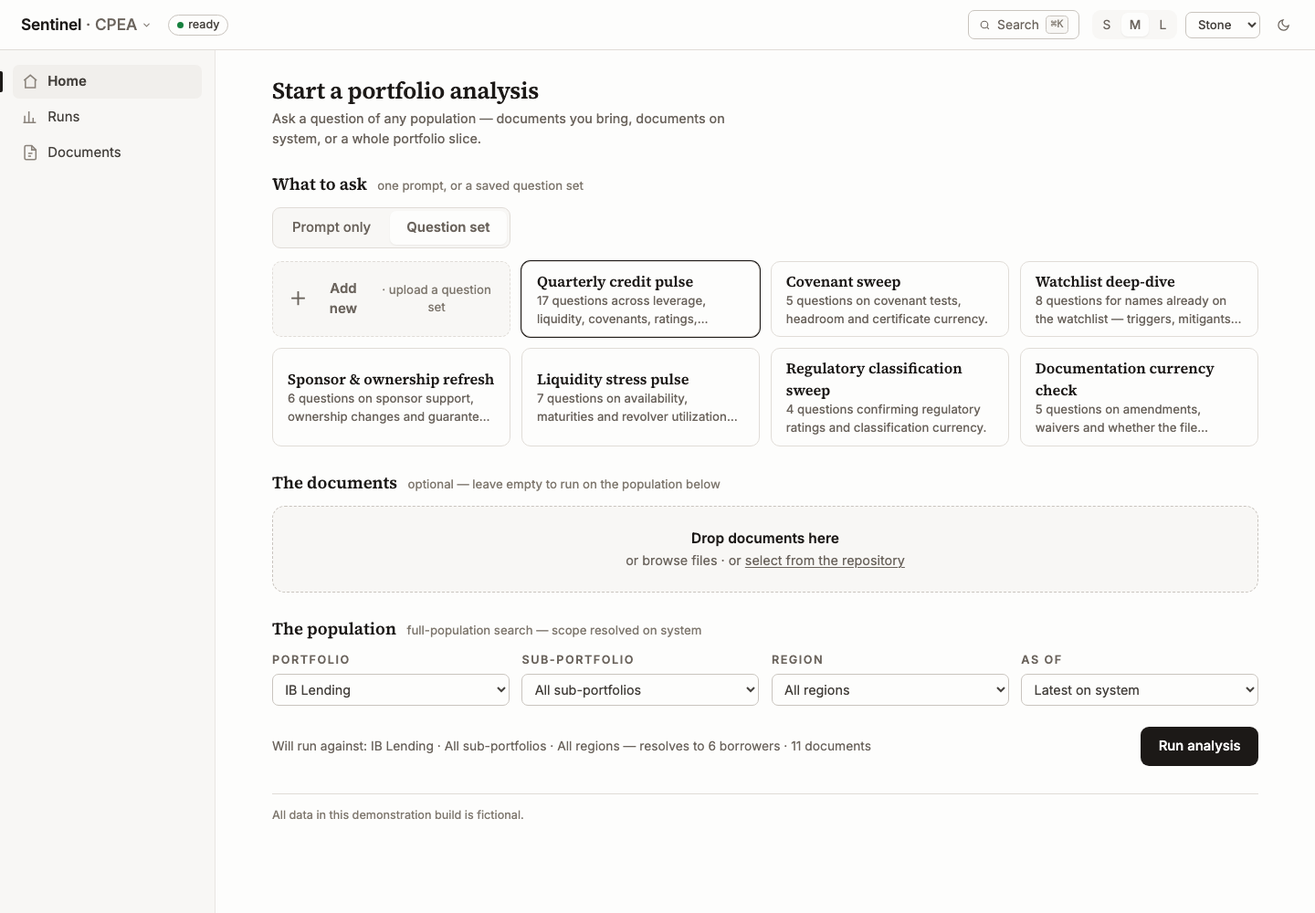
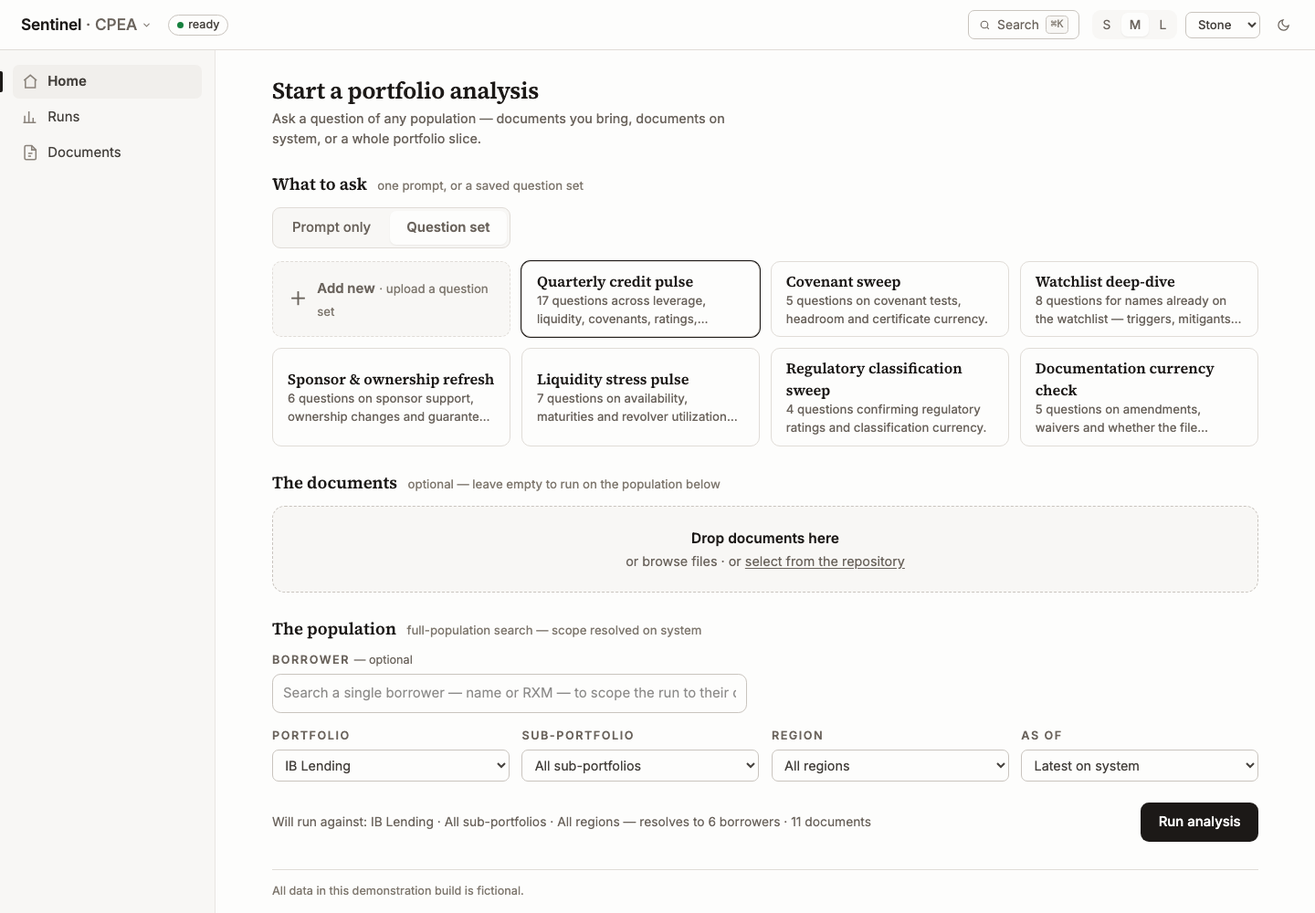
Demo feedback round: handoff contracts, tour, copy map, demo question file, screenshots
docs/api-handoff.md
- Method table: per-application question-set stores (getQuestionSets /
  addQuestionSet take the store; a reviewed list with nothing kept is
  refused), parseQuestionFile, searchBorrowers, the borrower criterion on
  resolvePopulation, the app-scoped run seam (startRun / getRun /
  listRuns / cancelRun take the application; prompt-only = exactly one
  question), and the mock-only sign-in switch on me().
- The Vantage contract: a run carries questions[] and an ordered
  sections: [{ question, blocks }]; the block contract applies to every
  section unchanged; one question renders exactly as v1.7 did.
- New sections: the question-file contract (.xlsx first sheet or .csv;
  first column; one question per row; blanks skipped; order kept; no
  header row; nothing retained), and Inquiry as configuration (the same
  seam scoped by application, its own run store, no shelf).
- Deploy notes: the localStorage keys the app really uses (the list still
  named the extraction-settings key removed in v1.6).

docs/runbook.md — the landing line is no longer stale (four live
applications, not "ERM and Vantage in design"). New tour steps 30–36:
CPEA borrower scope and the single-question shape, the Documents
shortcut, Vantage's one-off file intake, save-as-set, Inquiry, and the
one-application user. Reset is now step 37.

docs/editing-copy.md — rows for the inquiry and questionSets string
blocks, the widened erm and vantage rows, inquiryFixtures.ts, and the new
[…]

diff --git a/docs/api-handoff.md b/docs/api-handoff.md
@@ -37,7 +37,7 @@ Signatures are in `client.ts`; this table is the behaviour the UI expects.
 
 | Method                                          | Reads / writes                       | Semantics the UI depends on                                                                                                                                                                                                                                                                                                                                           |
 | ----------------------------------------------- | ------------------------------------ | --------------------------------------------------------------------------------------------------------------------------------------------------------------------------------------------------------------------------------------------------------------------------------------------------------------------------------------------------------------------- |
-| `me()`                                          | read                                 | Fixed for the session; identity from the firm's credential management system, `name` display-formatted "Last, First". Cached by the UI.                                                                                                                                                                                                                                                                                                                              |
+| `me()`                                          | read                                 | Fixed for the session; identity from the firm's credential management system, `name` display-formatted "Last, First". Cached by the UI. `entitlements` lists the applications the user may enter (`crr`, `erm`, `vantage`, `inquiry`) — one entitlement sends `/` straight into that application. **Mock only:** `localStorage['sentinel.mock.user'] = 'u-leadership'` signs in as the Inquiry-only leadership user; the real backend takes identity from the session and has no such key. |
 | `listMyReviews()`                               | read                                 | Caller's reviews, newest first, **including** ones still processing (`status: 'processing'`, `borrowerName: null` until detected). Landing "Recent" shows the first six.                                                                                                                                                                                              |
 | `listAllReviews(filters)`                       | read                                 | Server-side `query` (borrower, CL number, sector — case-insensitive substring), `lob`, `ownerId`, `period` (`'12m'` default, `'all'`). Return `{ reviews, total, owners }`; `owners` populates the select. May truncate `reviews` — the UI shows `total`.                                                                                                             |
 | `getReview(id)`                                 | read                                 | Now also carries `areas` (assessment verdicts) and optional `referenceData` (upstream/CRR snapshot; omit entirely when feeds are not connected — the UI renders nothing). `ProcessingReview` (status `processing` / `failed` / `cancelled`) or a full `Review` (`ready`). The UI polls this every second while `processing` and renders the same URL either way. Unknown id → reject `No review with id …`.                                                                                                                                       |
@@ -61,12 +61,14 @@ Signatures are in `client.ts`; this table is the behaviour the UI expects.
 | `searchRepository(query, scope?)`               | read                                 | THE shared repository search (re-signed v1.5 as the platform picker contract — ERM's picker and Documents lens today, the future CRR picker's too). `query` matches borrower/counterparty name or RXM — case-insensitive substring, RXM with or without the `RXM-` prefix; empty query returns the scoped list. `scope.rxm` restricts to one borrower; `scope.notInReviewId` additionally drops documents already in that review's evidence set (CRR amend-evidence). One store, many lenses: `repoId` IS the index-store `docId`. Each row: `{ repoId, rxm, counterparty, fileName, docType, uploadedAt, pages, parsed, docId? }`. |
 | `listPolicyDocs()`                              | read                                 | Policy search (v1.6): the browsable rows `{ id, title, revisedOn }`, newest revision first. A non-question search term filters these client-side. |
 | `askPolicies(question)`                         | read (CAPABILITY PREVIEW)            | Policy search's Ask: returns `{ answer, quote, citation, revisedOn }`. The answering engine is FUTURE WORK — the mock returns the one fixture answer; the http impl should route to the policy-QA service when it exists and keep this exact shape. |
-| `addQuestionSet({ name, description, fileName? })` | mutate                            | CPEA "Add new": persists a saved question set. The mock parses no file (placeholder question list, labeled honestly); the real impl parses the CSV/XLSX (one question per row) into `fields`. |
-| `getQuestionSets()`                             | read                                 | ERM (v1.5): the selectable question-set configs — `{ id, name, fields: [{ id, label, question, outputType, visible, derivedAcceptable }] }`. `visible` marks monitor-table columns; `derivedAcceptable` is a governance hook (carried, unenforced in the UI this round). |
-| `resolvePopulation(criteria)`                   | read                                 | ERM: resolve a population WITHOUT starting a run (the start screen's scope preview). Returns `{ population, documentCount }` where population carries full accounting: `included`, `excluded` (each with a NAMED reason — never silent), `indeterminate` (reported, never defaulted). |
-| `startRun({ questionSetId, prompt?, criteria, documents? })` | mutate                  | ERM: start a run; returns `{ runId }` immediately. The run advances server-side (the UI may leave); explicit `documents` union with the population's scope. |
-| `getRun(runId)` / `listRuns()`                  | read (poll while running)            | ERM: a run is a RECORD — every state (`queued/running/completed/cancelled/failed`) kept and revisitable, nothing overwrites. Running runs carry `progress` (staged: population resolved → index current → questions with counts → computing). Completed runs carry the full per-answer store: `{ rxm, questionId, value, grade: stated\|derived\|unsupported, conf, inferredFrom?, evidenceRefs, rationale?, limitations? }`. THE GRADING CONTRACT: `stated` only with an entailing quote (evidenceRefs non-empty), `derived` only with `inferredFrom` naming stated inputs, else `unsupported`; retrieval similarity never grades; grades live only on answers (row flag counts are computed client-side). |
-| `cancelRun(runId)`                              | mutate                               | ERM: a running run becomes `cancelled` (with `cancelledAt`) and STAYS in Runs as a record. |
+| `getQuestionSets(store)`                        | read                                 | One application's question-set shelf (v1.8 — `store` is `'erm'` for CPEA, `'vantage'` for Vantage). **Stores are per-application: a set saved in one never appears in another.** Each set: `{ id, name, description, fields: [{ id, label, question, outputType, visible, derivedAcceptable }] }`. `visible` marks monitor-table columns; `derivedAcceptable` is a governance hook (carried, unenforced in the UI). |
+| `addQuestionSet(store, { name, description, fileName?, questions? })` | mutate        | Saves a set to THAT store only ("Add new", and Vantage's "Save as a question set"). With `questions` (a file the user already reviewed — possibly with some questions removed) those become the set's `fields`, in order; a `questions` list with nothing in it → reject (a set is never invented). Without them the real impl parses the uploaded file (see *The question-file contract* below); the mock parses nothing and stores a placeholder list, labeled honestly. Blank `name` → reject. |
+| `parseQuestionFile(file)`                       | read (nothing retained)              | v1.8: reads a question file BACK for review before anything runs — returns `{ fileName, questions: string[] }`. Retains nothing server-side: the client runs the questions once, or saves them via `addQuestionSet`. Wrong type / empty file → reject with a message naming the file. See *The question-file contract*. (`placeholder: true` on the result is the MOCK saying its list is a labeled placeholder — a real parse never sets it.) |
+| `searchBorrowers(query)`                        | read                                 | v1.8: the borrower index behind the population zone's borrower scope — `[{ rxm, name, documentCount }]`, where `documentCount` is ALL of that borrower's documents on system. Ratified search keys: name or RXM, case-insensitive substring, RXM with or without the `RXM-` prefix; empty query = the whole index. |
+| `resolvePopulation(criteria)`                   | read                                 | Resolve a population WITHOUT starting a run (the start screen's scope preview). Returns `{ population, documentCount }` where population carries full accounting: `included`, `excluded` (each with a NAMED reason — never silent), `indeterminate` (reported, never defaulted). **Borrower scope (v1.8):** `criteria.borrower = { rxm, name }` makes the population exactly that borrower — `included: [borrower]`, nothing excluded or indeterminate, `population.criteria.borrower` set (the accounting names it) — and `documentCount` = all of its documents on system. The four dropdown criteria are carried but not applied while a borrower is set. Unscoped behaviour is unchanged. |
+| `startRun(app, { questionSetId?, prompt?, criteria, documents? })` | mutate               | Start a run in ONE application's run store (`app`: `'erm'` = CPEA, `'inquiry'` = Inquiry). Exactly one of `questionSetId` (a set run) or `prompt` (a **prompt-only run: exactly one question**, answers keyed `questionId: 'prompt'`) — neither, or both, rejects. Inquiry has question sets switched off: a `questionSetId` there rejects. Returns `{ runId }` immediately; the run advances server-side (the UI may leave). The population's document scope (a borrower scope: that borrower's documents) unions with explicit `documents`. |
+| `getRun(app, runId)` / `listRuns(app)`          | read (poll while running)            | That application's runs only — a runId from another application's store does not resolve. A run is a RECORD — every state (`queued/running/completed/cancelled/failed`) kept and revisitable, nothing overwrites. Running runs carry `progress` (staged: population resolved → index current → questions with counts → computing). Completed runs carry the full per-answer store: `{ rxm, questionId, value, grade: stated\|derived\|unsupported, conf, inferredFrom?, evidenceRefs, rationale?, limitations? }`. THE GRADING CONTRACT: `stated` only with an entailing quote (evidenceRefs non-empty), `derived` only with `inferredFrom` naming stated inputs, else `unsupported`; retrieval similarity never grades; grades live only on answers (row flag counts are computed client-side). A run with exactly one question renders the single-question shape (Borrower · RXM · Flags · Answer); more than one, the portfolio monitor. |
+| `cancelRun(app, runId)`                         | mutate                               | A running run becomes `cancelled` (with `cancelledAt`) and STAYS in that application's Runs as a record. |
 
 **ERM export (contract open):** the results screen renders "Export summary (Excel)" and "Export summary (Word)"; neither is wired — the Excel-vs-Word ruling is deliberately open (ledger). When ruled, the export takes a `runId` and renders the summary + monitor table of that frozen run; follow `exportReview`'s blob-download shape. Do not implement one format speculatively.
 | `amendEvidence(reviewId, source, why)`          | mutate (owner only)                  | Adds a document to the review's evidence set mid-review. `source` is `{ kind: 'repo', repoId }` or `{ kind: 'upload', fileName, sizeBytes }` (the http impl will carry the file itself); `why` is REQUIRED and must be rejected server-side when blank — it is the evidence-log rationale shown on the manifest row. The added `ReviewDocument` carries `origin: 'amended'`, `addedAt`, `why`, and `docId` once parsed. Set `evidenceAmendedAt` and, while impacted checks re-run, `amendSettlesAt` (the UI shows "impacted checks re-running" until that instant passes). Returns the updated review. |
@@ -79,7 +81,9 @@ Signatures are in `client.ts`; this table is the behaviour the UI expects.
 
 **This section IS the contract for the future answering backend.** An answer is an **ordered list of typed blocks** — the UI never receives free markup, and the vocabulary is additive: a new shape is a new block type, and an old client renders unknown types as an honest labeled fallback ("this version can't display this content"), never a broken state, never a silent skip.
 
-Seam: `askDocuments(question, documents) → { runId }` (returns immediately; the run advances server-side), `getVantageRun(runId)` (poll while queued/running; carries `progress: { docsRead, answering, statusLine }`), `listVantageRuns()` (newest first — every run kept), `cancelVantageRun(runId)` (kept as `cancelled`). A run: `{ runId, question, documents: [{ name, kind: pdf|docx|xlsx|csv, meta, sizeBytes? }], state: queued|running|completed|cancelled|failed, blocks, startedAt, cancelledAt? }`. A follow-up is a **new run** against the same docset — no context is carried and no API may imply it is.
+Seam: `askDocuments(questions, documents) → { runId }` (returns immediately; the run advances server-side), `getVantageRun(runId)` (poll while queued/running; carries `progress: { docsRead, answering, statusLine }`), `listVantageRuns()` (newest first — every run kept), `cancelVantageRun(runId)` (kept as `cancelled`).
+
+**A run carries one or many questions (v1.8):** `{ runId, questions: string[], documents: [{ name, kind: pdf|docx|xlsx|csv, meta, sizeBytes? }], state: queued|running|completed|cancelled|failed, sections: [{ question, blocks }], startedAt, cancelledAt? }`. `questions` arrive in the order the user combined them (a typed question first, then a reviewed file's rows; or a saved set's questions). The answer is an **ordered list of sections, one per question, in `questions` order** — each section is `{ question, blocks }`, and **the block contract below applies to every section's `blocks`, unchanged**: same types, same rules, same block-level citations, same unknown-type fallback. `sections` is empty until the run completes. The UI renders one question exactly as v1.7 did (the question as the page heading, its blocks beneath — guarded by a byte-exact regression test); with more than one, each section gets a serif question heading ("Q n of N") above its blocks. A follow-up is a **new single-question run** against the same docset — no context is carried and no API may imply it is.
 
 Block types:
 
@@ -97,6 +101,28 @@ Citations attach at **block level**, `citations?: []`, two kinds:
 - `{ kind: 'tabular', file, rows: number[], of, columns: string[], rowData: [{ n, cells }], note? }` → opens the **rows-used viewer**: the verbatim rows as they appear in the file, untransformed ("rows are pages"). The backend supplies the verbatim rows WITH the citation — the UI never re-reads the file.
 
 Vantage has **no grading chips** (that regime is CPEA's), no RAG, no composite scores, no percentages, and **no repository access** — documents enter by upload only.
+
+## The question-file contract (v1.8)
+
+Vantage's one-off intake and every shelf's Add new accept a file of questions. **Parsing is backend work** — the mock declares the contract and returns fixture data (`Watchlist_Qs.xlsx` → its 14 questions; any other file → an honestly labeled placeholder list). The real `parseQuestionFile` (and `addQuestionSet` when given only a file) must:
+
+- read **.xlsx: the first sheet, the first column (A), one question per row** (CSV: the first column, one per row);
+- keep **row order**; skip blank cells; trim whitespace; do not treat any row as a header — if the file carries one, it reads back as a question and the user removes it in the review card;
+- return the questions to the client and **retain nothing** — the file is read for review, not stored. Nothing persists unless the user saves the questions as a set (`addQuestionSet` with `questions`);
+- reject a wrong type or an unreadable/empty file with a message naming the file (the UI shows it verbatim, amber).
+
+The upload itself goes through the shared upload states (per-file progress; over-limit and wrong-type rejections named, amber; the limit is `MAX_UPLOAD_MB` in `src/components/upload/config.ts`). A real sample lives at `docs/demo-files/Watchlist_Qs.xlsx`.
+
+## Applications that share a workflow — Inquiry (v1.8)
+
+**Inquiry is CPEA with one configuration flag off, not a second codebase.** The registry (`src/apps.ts`) gives every application a `config`; Inquiry's is `{ questionSets: false }`. The CPEA screens (start · processing · results · runs · documents, `src/screens/erm/`) are mounted twice — at `/erm` for CPEA and `/inquiry` for Inquiry — and read which application they are from a context the shared shell provides (config, base path, copy overlay, capability slots). CPEA's route configuration wires the question-set control into its slot; Inquiry's never reaches it (a unit test walks Inquiry's import graph to prove it).
+
+For the http implementation this means:
+
+- **The same seam, scoped by application.** `startRun` / `getRun` / `listRuns` / `cancelRun` take `app` (`'erm'` | `'inquiry'`). Each application keeps **its own run store** — Inquiry's runs never list in CPEA and vice versa; a runId does not resolve across stores.
+- **Inquiry asks one question per run.** Every Inquiry run is prompt-only (answers keyed `questionId: 'prompt'`) and renders the single-question results shape. `questionSetId` on an Inquiry run rejects.
+- **Everything else is shared**: `searchBorrowers`, `resolvePopulation` (including the borrower scope), `searchRepository`, the document viewers, the grading contract.
+- **Question-set shelves are per-application** too (`getQuestionSets(store)`): CPEA's and Vantage's never mix; Inquiry has none.
 
 **CPEA rename (v1.6):** the application formerly labeled ERM is now **Credit Portfolio Event Assessment (CPEA)** everywhere the user reads. ROUTES STAY `/erm/*` — the rename is presentation only; the http impl and any deep links keep the `/erm` paths and the `erm` registry id.
 
@@ -139,7 +165,7 @@ TanStack Query owns caching. `useReview` re-fetches every 1 s while a review is 
 
 - `npm run build` emits a static bundle in `dist/`. Serve `index.html` for every unknown path — the router owns `/review/:id`, `/reviews/all`, etc.
 - Set `VITE_API=http` (and the base URL) at build time; Vite inlines `import.meta.env`.
-- The app stores only UI preferences in `localStorage` (`sentinel.theme`, `sentinel.rail.collapsed`, `sentinel.ctx.collapsed`, `sentinel.extraction.settings`). `sentinel.mock.state` exists only in mock mode.
+- The app stores only UI preferences in `localStorage` (`sentinel.theme`, `sentinel.textSize`, `sentinel.rail.collapsed`, `sentinel.ctx.collapsed`, `sentinel.ctxWidth`, `sentinel.lastApp`). `sentinel.mock.state` and `sentinel.mock.user` exist only in mock mode. (The v1.6 removal of the extraction settings also removed `sentinel.extraction.settings`.)
 
 ## Settled and open questions (build-spec §9)
 

diff --git a/docs/runbook.md b/docs/runbook.md
@@ -43,14 +43,14 @@ make dev
   ```
 
 - **Open** http://localhost:5173/ in Chrome or Edge.
-- **What you should see first**: the **Sentinel suite landing** — three application cards (CRR with an **Open** button; ERM and Vantage marked "In design"). Click **Open** on CRR. On later visits `/` skips the landing and goes straight back into the app you used last (the masthead brand "Sentinel · CRR ▾" is the switcher, and "All applications" brings the landing back at `/apps`).
+- **What you should see first**: the **Sentinel suite landing** — four live application cards: **CRR**, **Credit Portfolio Event Assessment (CPEA)**, **Vantage** and **Inquiry**, each with an **Open** button. Click **Open** on CRR. On later visits `/` skips the landing and goes straight back into the app you used last (the masthead brand "Sentinel · CRR ▾" is the switcher, and "All applications" brings the landing back at `/apps`). A user entitled to one application only skips the landing entirely — see step 36.
 - **What you should see next**: the **Start a review** page — a serif heading, a dashed drop zone ("Drag documents here"), an optional "Anything Sentinel should know?" box, and a **Recent** list beginning with *Veyland US Holdco LLC* (amber "4 open" badge). A left rail shows Home, My reviews, All reviews, Documents, Policy library.
 
 Leave this terminal running; press `Ctrl+C` to stop the server.
 
 ## 4. Guided tour
 
-The data is fictional. Every action below persists in your browser (survives refresh); step 30 resets everything.
+The data is fictional. Every action below persists in your browser (survives refresh); step 37 resets everything.
 
 **Start a review and watch it process**
 
@@ -107,9 +107,19 @@ The data is fictional. Every action below persists in your browser (survives ref
 28. Now search `revolver availability` — the browse rows give way to match evidence: passages with the matched words highlighted, provenance (`Liquidity Summary · p. 14`), and "Used in Veyland review →" which deep-links straight into Section 2.
 29. Still in Documents, try the advanced syntax ("Advanced search" explains it): `"letters of credit"` (exact phrase — two hits) and `revolver -letters` (excludes passages containing "letters").
 
+**The other applications** (open them from the switcher, "Sentinel · CRR ▾")
+
+30. **CPEA → Start** — under *The population*, type `amber` in **Borrower — optional**, pick *Ambervale Foods Group*: a chip (name + `RXM-5120` + ✕) replaces the field, the four dropdowns grey out, and the line reads "Will run against: Ambervale Foods Group (RXM-5120) — resolves to 1 borrower · 5 documents". Typing `6430` finds Veyland by RXM; arrow keys and Enter work too. Click ✕ to go back to the whole portfolio.
+31. Still on CPEA Start, with **Prompt only** selected, type `Which borrowers face refinancing risk in the next 12 months?` and click **Run analysis**. Processing says "One-off question"; the results are one row per borrower — Borrower · RXM · Flags · Answer, no By borrower / By question toggle. Click the Veyland row: the full answer, `derived` + `conf medium`, and **Detail & evidence →** with both quotes. (Choose **Question set** instead and you get the 17-column monitor, as before.)
+32. **CPEA → Documents** — every borrower group ends with **Ask about this borrower →**. Click Torvane's: you land on Start with Torvane already chosen ("resolves to 1 borrower · 1 document").
+33. **Vantage → Ask** — *What to ask* now has two modes. In **One-off questions**, drop `docs/demo-files/Watchlist_Qs.xlsx` (in this repository) on the slim row under the question box: it uploads, then a review card lists the file's questions — "14 questions read", three shown, **+ 11 more — review all before running**. Remove one with its ✕; type a question of your own too — the line beside **Ask** counts both ("14 questions · …"). Attach a document and **Ask**: the answer has one heading per question ("Q1 of 14" …), each with its own blocks. (The demo reads any file named `Watchlist_Qs.xlsx`; other .xlsx files get a labeled placeholder list — real parsing is backend work.)
+34. Back on Ask, drop the file again and click **Save as a question set**: the modal opens with the file and the title "Watchlist Qs" filled in; **Save**. Switch to **Question set** — it sits beside Vantage's own two sets (Exposure limits sweep, Key-customer scan). CPEA's shelf does not show it: every application keeps its own sets.
+35. **Inquiry** — the fourth application, for senior leadership: CPEA with the question-set shelf removed. Start is one box ("Your question — type it and go — nothing here is saved for reuse") plus the same borrower scope. **Runs** keeps every question asked — open the refinancing run (4 stated · 1 derived · 1 unsupported) and the cancelled one ("cancelled before completion").
+36. **One-application user** — in the console run `localStorage.setItem('sentinel.mock.user', 'u-leadership')` and go to `/`: you land straight in Inquiry, and the brand is plain "Sentinel · Inquiry" with no switcher. `localStorage.removeItem('sentinel.mock.user')` switches back (demo-mode only; a real deployment takes identity from the sign-in).
+
 **Reset**
 
-30. To reset the demo to its shipped state: open the browser devtools console (`F12`) and run `localStorage.removeItem('sentinel.mock.state')`, then refresh. (Theme and layout preferences are stored separately and survive.)
+37. To reset the demo to its shipped state: open the browser devtools console (`F12`) and run `localStorage.removeItem('sentinel.mock.state')`, then refresh. (Theme and layout preferences are stored separately and survive.)
 
 ## 5. Serving the built app (target-environment style)
 

diff --git a/docs/editing-copy.md b/docs/editing-copy.md
@@ -11,11 +11,14 @@ Every word the app shows lives in one of three files — never in a component. C
 | Brand name, "ready" badge, skip link | `src/strings.ts` › **app** |
 | Theme names, dark-mode toggle, the text-size control (S/M/L labels + their spoken names) | `src/strings.ts` › **theme** |
 | Suite landing + app switcher — application names/descriptions, "Open", "In design", "All applications", the fictional-data footer | `src/strings.ts` › **suite** |
-| CPEA (routes `/erm`) — start/processing/results/runs/documents wording, question-mode control, grade chips, the population disclosure, modal labels | `src/strings.ts` › **erm** |
+| CPEA (routes `/erm`) — start/processing/results/runs/documents wording, the mode labels (Prompt only / Question set), the borrower scope ("Borrower — optional", its placeholder, the no-match line, "Clear borrower"), the resolve line, the single-question results wording ("One-off question", "one row per borrower, one graded answer each"), "Ask about this borrower →", grade chips, the population disclosure, modal labels | `src/strings.ts` › **erm** |
+| Inquiry (routes `/inquiry`) — ONLY the words that differ from CPEA: the start title and sub, the "Your question" zone and its aside, the prompt placeholder, "Results", the Runs and Documents subs, the rail's accessible name. Every other word on Inquiry's screens is CPEA's, on purpose — edit it in **erm** and both applications change | `src/strings.ts` › **inquiry** |
+| The shared question-set control (CPEA + Vantage) — "Add new · upload a question set", the "Add a question set" modal, the "Saved … to this application's question sets" toast | `src/strings.ts` › **questionSets** (each application's mode labels live in its own block) |
 | Policy search — searchbar copy, the Ask answer card, browse rows | `src/strings.ts` › **policy** |
 | Command palette — placeholder, group names, kbd footer, actions | `src/strings.ts` › **palette** |
-| Vantage — ask/processing/answer/runs wording, the absence heading, the unknown-block fallback, the rows-used viewer | `src/strings.ts` › **vantage** |
-| Vantage demo answer — the question, blocks, citations, historical runs | `src/api/mock/vantageFixtures.ts` |
+| Vantage — ask/processing/answer/runs wording, the mode labels (One-off questions / Question set), the question-file row, the review card ("N questions read", "Save as a question set", "+ N more — review all before running"), the count beside Ask, the many-question headings ("Answers", "Q n of N"), the absence heading, the unknown-block fallback, the rows-used viewer | `src/strings.ts` › **vantage** |
+| Vantage demo data — the demo answer (question, blocks, citations), historical runs, Vantage's two question sets and their questions, the Watchlist_Qs.xlsx questions, the compact answers many-question runs rotate through | `src/api/mock/vantageFixtures.ts` |
+| Inquiry demo data — the refinancing demo run and its answers/evidence, the history runs, the cancelled run | `src/api/mock/inquiryFixtures.ts` |
 | Upload rows — the over-limit and wrong-type rejections, Remove | `src/strings.ts` › **upload** (limit: `src/components/upload/config.ts`) |
 | Workpaper-configuration labels (placeholder vocabulary: `src/screens/landing/config.ts`) | `src/strings.ts` › **landing** |
 | ERM demo data — question sets, borrowers, answers, runs, population reasons | `src/api/mock/ermFixtures.ts` |
@@ -34,7 +37,7 @@ Every word the app shows lives in one of three files — never in a component. C
 | Documents — title and sub, filter labels, "Advanced search" help, count lines (browse and search), the action bar (Preview extracted text / Download original / Used in … review →), the preview modal | `src/strings.ts` › **documents** |
 | The extracted text shown in the preview modal (document sections, page ranges) | `src/api/mock/fixtures.ts` › **DOCUMENTS** |
 | Policy-library stub, "Nothing here" (404) | `src/strings.ts` › **policy**, **notFound** |
-| Error banners and toasts from the "backend" (export failure, "belongs to …", parse failure, upload/rationale messages) | `src/api/mock/mockApi.ts` › **MESSAGES** |
+| Error banners and toasts from the "backend" (export failure, "belongs to …", parse failure, upload/rationale messages, "Type a question first — or choose a question set.", the question-file read errors and placeholder questions) | `src/api/mock/mockApi.ts` › **MESSAGES** |
 | Demo content — borrower names, CL numbers, sectors, the narrative and timeline, work-paper values, attention rows, debate positions, document passages | `src/api/mock/fixtures.ts` (the whole file is the demo-data file; header explains) |
 | The "frontend not built" placeholder page served by Flask | `server/spa.py` › the **EDIT ME** block at the top |
 

diff --git a/README.md b/README.md
@@ -8,7 +8,7 @@ _All company, person, and transaction data in this application is fictional; any
 
 ## Start here
 
-**The development team inherits the `v1.7.0` tag** — clone `main` at that tag (Vantage round over `v1.6.0`: the suite's third live application — ask → typed-block answers → runs, with the block contract and the rows-used viewer).
+**The development team inherits the `v1.8.0` tag** — clone `main` at that tag (demo feedback round over `v1.7.x`: **Inquiry**, the suite's fourth live application, built as CPEA with one configuration flag off; saved question sets shared between CPEA and Vantage with per-application shelves; Vantage one-off questions by spreadsheet and many-question runs; CPEA's single-borrower scope and single-question results shape).
 
 **Changing the wording?** Every user-facing string lives in [src/strings.ts](src/strings.ts) (demo data in [src/api/mock/fixtures.ts](src/api/mock/fixtures.ts)) — see [docs/editing-copy.md](docs/editing-copy.md) for the map. A copy change never requires touching a component.
 
